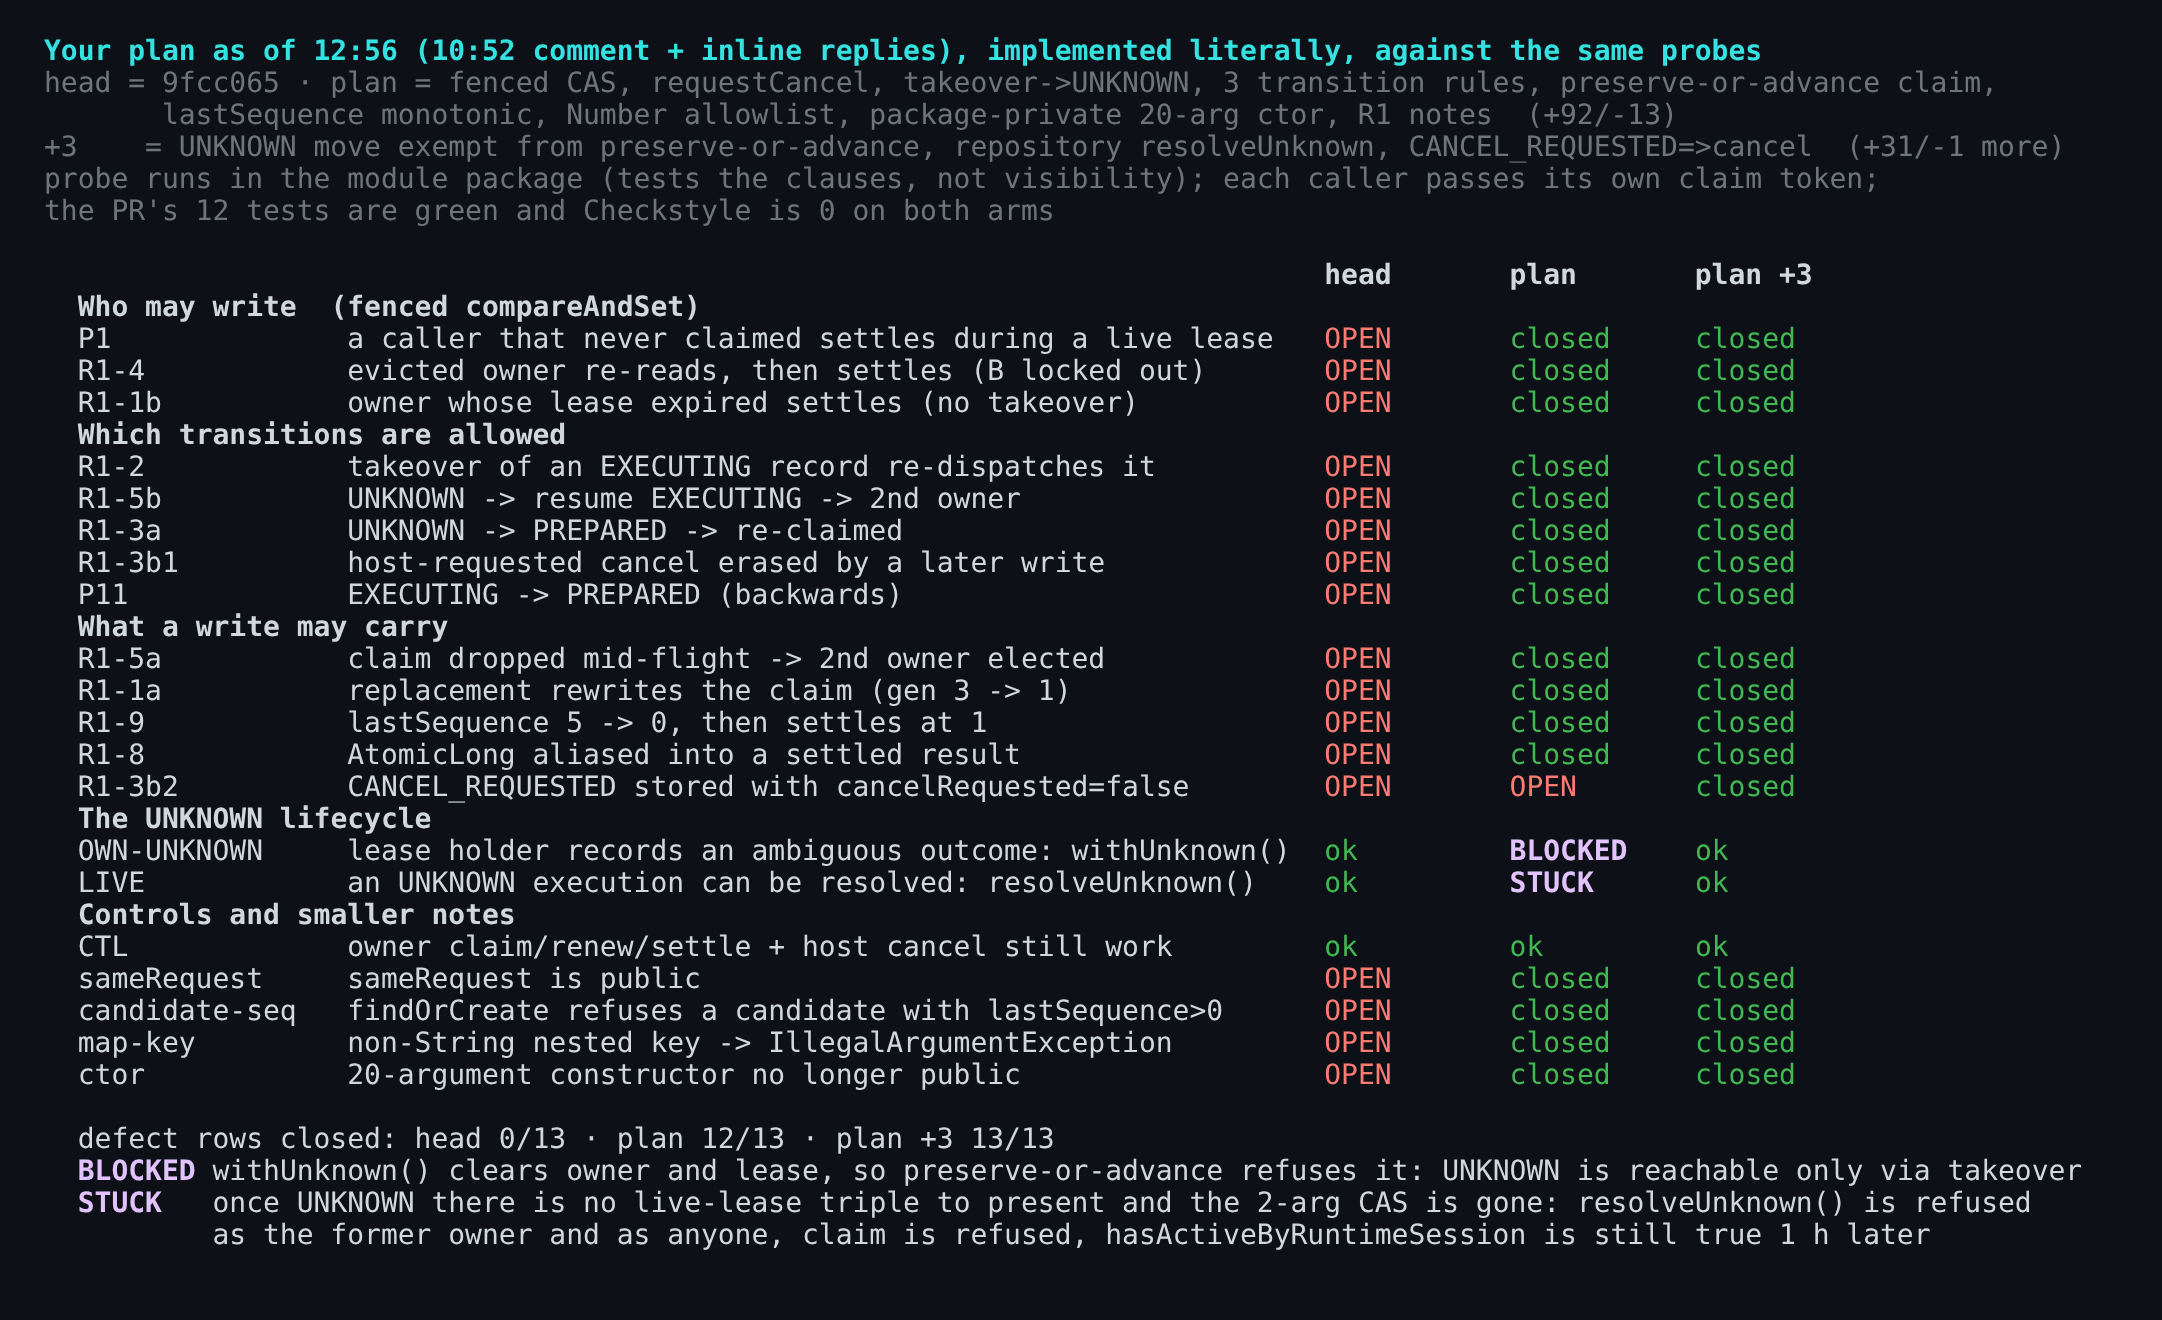
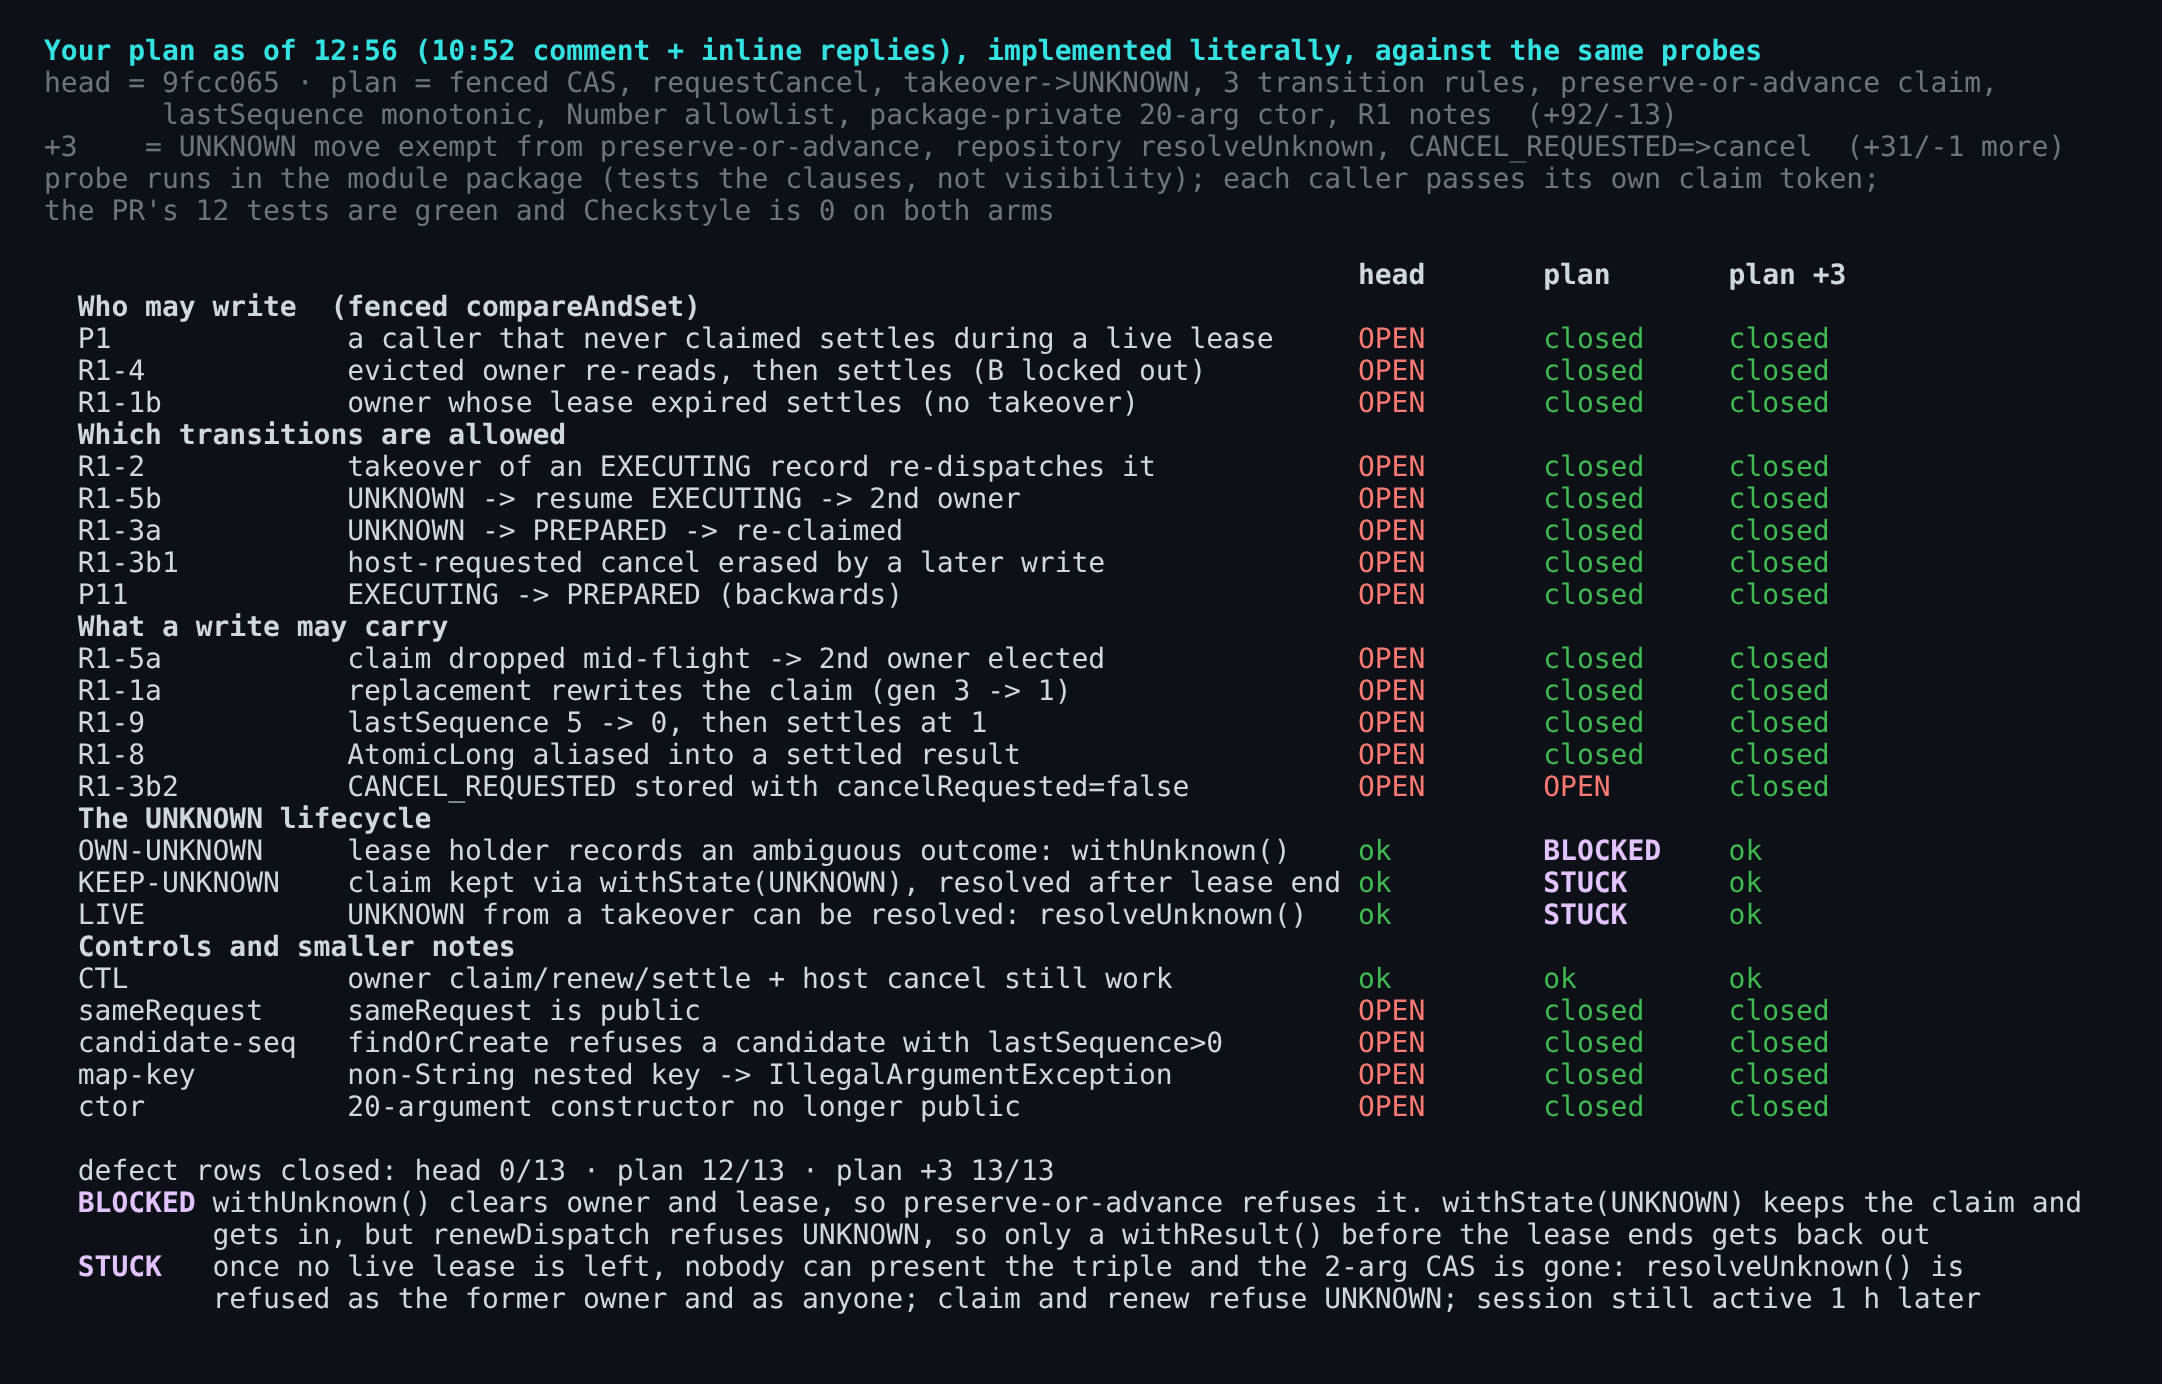
assets: PR #12391 round-2 — KEEP-UNKNOWN row, withState(UNKNOWN) side-door probe

diff --git a/pr12391/r2/scripts/UnknownSideDoorProbe.java b/pr12391/r2/scripts/UnknownSideDoorProbe.java
@@ -1,0 +1,85 @@
+package com.alibaba.qwen.code.runtimebroker;
+
+import com.alibaba.qwen.code.runtimebroker.ToolExecutionRecord.State;
+import java.lang.reflect.InvocationTargetException;
+import java.lang.reflect.Method;
+import java.time.Clock;
+import java.time.Duration;
+import java.time.Instant;
+import java.time.ZoneId;
+import java.time.ZoneOffset;
+import java.util.LinkedHashMap;
+import java.util.Map;
+
+/** Can the lease holder enter and leave UNKNOWN itself, using only public record methods? */
+public final class UnknownSideDoorProbe {
+    static final Instant T0 = Instant.parse("2026-09-21T00:00:00Z");
+    static final Duration LEASE = Duration.ofSeconds(30);
+
+    static final class MClock extends Clock {
+        Instant now = T0;
+        @Override public ZoneId getZone() { return ZoneOffset.UTC; }
+        @Override public Clock withZone(ZoneId zone) { return this; }
+        @Override public Instant instant() { return now; }
+    }
+
+    static Map<String, Object> ref() {
+        Map<String, Object> m = new LinkedHashMap<>();
+        m.put("sessionId", "session");
+        m.put("promptId", "turn");
+        m.put("callId", "tool");
+        m.put("argsDigest", "digest");
+        return m;
+    }
+
+    static Method cas4;
+
+    static String cas(InMemoryToolExecutionRepository repo, ToolExecutionRecord e, ToolExecutionRecord r) {
+        try {
+            Object o = cas4.invoke(repo, e, r, "owner-a", 1L);
+            return o == null ? "refused (null)" : "accepted " + ((ToolExecutionRecord) o).getState()
+                    + " owner=" + ((ToolExecutionRecord) o).getDispatchOwner();
+        } catch (InvocationTargetException x) {
+            return "refused (" + x.getCause().getMessage() + ")";
+        } catch (IllegalAccessException x) {
+            throw new IllegalStateException(x);
+        }
+    }
+
+    static void run(boolean expireFirst) {
+        MClock clock = new MClock();
+        InMemoryToolExecutionRepository repo = new InMemoryToolExecutionRepository(clock);
+        repo.findOrCreate(ToolExecutionRecord.prepared("x", "k", "binding", 1, "harness", "session",
+                "turn", "tool", "digest", ref()));
+        ToolExecutionRecord v1 = repo.claimDispatch("x", "owner-a", LEASE);
+        String viaWithUnknown = cas(repo, v1, v1.withUnknown());
+        ToolExecutionRecord cur = repo.findByExecutionCallId("x");
+        String viaWithState = cas(repo, cur, cur.withState(State.UNKNOWN, false));
+        cur = repo.findByExecutionCallId("x");
+        ToolExecutionRecord renew = repo.renewDispatch("x", "owner-a", 1, LEASE);
+        if (expireFirst) {
+            clock.now = clock.now.plusSeconds(31);
+        }
+        String viaResolve = cas(repo, cur, cur.resolveUnknown(Map.of("executionStatus", "success"), clock.instant()));
+        cur = repo.findByExecutionCallId("x");
+        String viaWithResult = cur.getState() == State.UNKNOWN
+                ? cas(repo, cur, cur.withResult(Map.of("executionStatus", "success"), 0, clock.instant()))
+                : "n/a";
+        System.out.printf("%s | enter: withUnknown()=%s ; withState(UNKNOWN,false)=%s ; renewDispatch=%s ; "
+                + "exit: resolveUnknown()=%s ; withResult()=%s ; active=%s%n",
+                expireFirst ? "lease expired before exit" : "exit within the lease",
+                viaWithUnknown, viaWithState, renew == null ? "null" : "renewed", viaResolve, viaWithResult,
+                repo.hasActiveByRuntimeSession("session"));
+    }
+
+    public static void main(String[] args) throws Exception {
+        for (Method m : InMemoryToolExecutionRepository.class.getMethods()) {
+            if (m.getName().equals("compareAndSet") && m.getParameterCount() == 4) {
+                cas4 = m;
+            }
+        }
+        System.out.println("arm=" + args[0]);
+        run(false);
+        run(true);
+    }
+}

diff --git a/pr12391/r2/scripts/fig7b.py b/pr12391/r2/scripts/fig7b.py
@@ -31,7 +31,8 @@ groups = [
   ]),
   ('The UNKNOWN lifecycle', [
     ('OWN-UNKNOWN', "lease holder records an ambiguous outcome: withUnknown()"),
-    ('LIVE', 'an UNKNOWN execution can be resolved: resolveUnknown()'),
+    ('KEEP-UNKNOWN', 'claim kept via withState(UNKNOWN), resolved after lease end'),
+    ('LIVE', 'UNKNOWN from a takeover can be resolved: resolveUnknown()'),
   ]),
   ('Controls and smaller notes', [
     ('CTL', 'owner claim/renew/settle + host cancel still work'),
@@ -41,7 +42,7 @@ groups = [
     ('NOTE-ctor', '20-argument constructor no longer public'),
   ]),
 ]
-W = 58
+W = 60
 print(f"{B}{CY}Your plan as of 12:56 (10:52 comment + inline replies), implemented literally, against the same probes{R}")
 print(f"{D}head = 9fcc065 · plan = fenced CAS, requestCancel, takeover->UNKNOWN, 3 transition rules, preserve-or-advance claim,{R}")
 print(f"{D}       lastSequence monotonic, Number allowlist, package-private 20-arg ctor, R1 notes  (+92/-13){R}")
@@ -59,6 +60,7 @@ print()
 defects = [rid for g in groups[:3] for rid, _ in g[1]]
 closed = lambda a: sum(1 for rid in defects if arms[a][rid] == 'closed')
 print(f"  defect rows closed: head {closed('head')}/{len(defects)} · plan {closed('L2')}/{len(defects)} · plan +3 {closed('C2')}/{len(defects)}")
-print(f"  {M}BLOCKED{R} withUnknown() clears owner and lease, so preserve-or-advance refuses it: UNKNOWN is reachable only via takeover")
-print(f"  {M}STUCK{R}   once UNKNOWN there is no live-lease triple to present and the 2-arg CAS is gone: resolveUnknown() is refused")
-print(f"          as the former owner and as anyone, claim is refused, hasActiveByRuntimeSession is still true 1 h later")
+print(f"  {M}BLOCKED{R} withUnknown() clears owner and lease, so preserve-or-advance refuses it. withState(UNKNOWN) keeps the claim and")
+print(f"          gets in, but renewDispatch refuses UNKNOWN, so only a withResult() before the lease ends gets back out")
+print(f"  {M}STUCK{R}   once no live lease is left, nobody can present the triple and the 2-arg CAS is gone: resolveUnknown() is")
+print(f"          refused as the former owner and as anyone; claim and renew refuse UNKNOWN; session still active 1 h later")

diff --git a/pr12391/r2/scripts/PlanMatrixProbe2.java b/pr12391/r2/scripts/PlanMatrixProbe2.java
@@ -320,6 +320,26 @@ public final class PlanMatrixProbe2 {
                 row("OWN-UNKNOWN", "BLOCKED", "lease holder's withUnknown() refused (" + e.getMessage() + ")");
             }
         });
+        guard("KEEP-UNKNOWN", () -> {             // lease holder marks UNKNOWN but keeps its claim, lease then ends
+            MClock clock = new MClock();
+            InMemoryToolExecutionRepository repo = new InMemoryToolExecutionRepository(clock);
+            repo.findOrCreate(prepared("keep"));
+            ToolExecutionRecord v1 = repo.claimDispatch("keep", "owner-a", LEASE);
+            ToolExecutionRecord u = cas(repo, v1, v1.withState(State.UNKNOWN, false), "owner-a", 1);
+            ToolExecutionRecord renew = repo.renewDispatch("keep", "owner-a", 1, LEASE);
+            clock.adv(31);
+            String how = "withState(UNKNOWN) kept owner=" + u.getDispatchOwner() + ", renew=" + d(renew)
+                    + ", lease ended";
+            try {
+                ToolExecutionRecord r = resolve(repo, "keep", u.getDispatchGeneration(), "owner-a", clock.instant());
+                row("KEEP-UNKNOWN", "ok", how + " -> resolved " + d(r) + "; session active="
+                        + repo.hasActiveByRuntimeSession("session"));
+            } catch (Refused e) {
+                clock.adv(3600);
+                row("KEEP-UNKNOWN", "STUCK", how + " -> resolution refused (" + e.getMessage()
+                        + "); 1h later session active=" + repo.hasActiveByRuntimeSession("session"));
+            }
+        });
         guard("R1-3b1", () -> {                   // host requests cancel; owner then erases it
             InMemoryToolExecutionRepository repo = new InMemoryToolExecutionRepository(new MClock());
             repo.findOrCreate(prepared("k3b"));

diff --git a/pr12391/r2/README.md b/pr12391/r2/README.md
@@ -15,6 +15,7 @@ Every patch applies with `git apply` on `9fcc065`; the PR's 12 tests need three 
 
 - `scripts/PlanMatrixProbe2.java` — the matrix in `fig7-plan-matrix.png`; lives in package `com.alibaba.qwen.code.runtimebroker` (clause-level); reaches the fenced CAS / `requestCancel` / `resolveUnknown` by reflection. Output: `logs/matrix2-<arm>.tsv`.
 - `scripts/PlanMatrixProbe.java` — earlier public-API variant (`logs/matrix-<arm>.tsv`).
+- `scripts/UnknownSideDoorProbe.java` — on L2, `withUnknown()` is refused but `withState(UNKNOWN, false)` (claim kept) gets in; `renewDispatch` refuses UNKNOWN, so only `withResult` before the lease ends gets out (`logs/unknown-side-door-L2.log`).
 - `scripts/BotWitnessProbe.java` — the bot review's R1-1..R1-9 witnesses through the public API (`logs/bot-witness-head.log`).
 - `scripts/AllocProbe.java` — R1-7 allocation (`logs/alloc.log`).
 - `scripts/mutants.py` — 17 mutants on the sites R1-6 names + 6 controls (`logs/mutants.log`).
